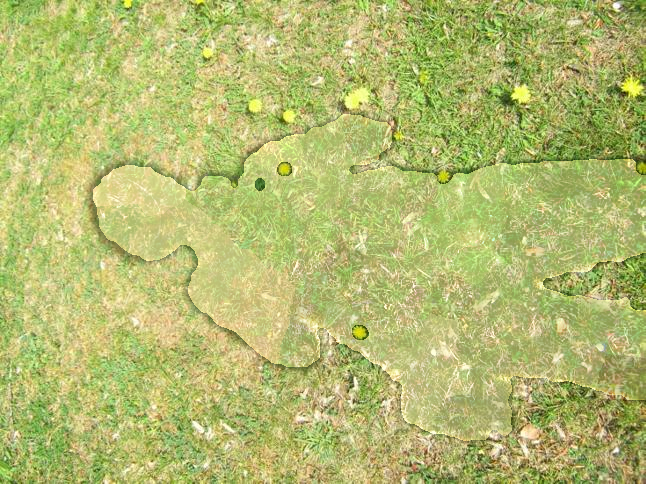
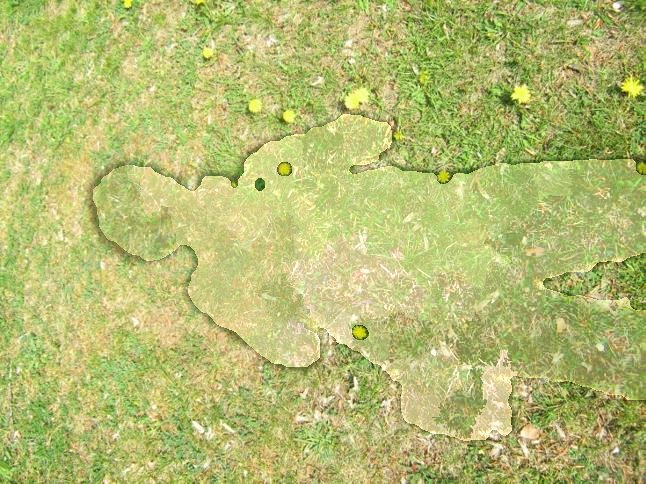
Added tests to bugfix the second removal method

diff --git a/shadow_removal.py b/shadow_removal.py
@@ -59,6 +59,7 @@ def first_removal(file, shadow_mask, partial_results=False):
         green_ratio = round(edge_shadow_segment_mean[1] / shadow_segment_mean[1], 4)
         red_ratio = round(edge_shadow_segment_mean[2] / shadow_segment_mean[2], 4)
 
+        # note: why am I using dilated instead of normal segment
         # copying the original image and zeroing where there's a shadow
         mask_image = image.copy()
         mask_image[dilated_shadow_segment != 255] = 0
@@ -127,8 +128,8 @@ def second_removal(file, shadow_mask, partial_results=False):
     # note: not converting the shadow segments to lab seems to improve removal results
     # TODO test without mask, only try on zero'd out image, may improve
     # using the SLIC algorithm to segment the image in non-shadow and shadow regions
-    shadow_segments = slic(image, n_segments=70, compactness=20, mask=shadow_mask, convert2lab=True, enforce_connectivity=True)
-    non_shadow_segments = slic(image, n_segments=70, compactness=20, mask=non_shadow_mask, convert2lab=True, enforce_connectivity=True)
+    shadow_segments = slic(image, n_segments=70, compactness=10, mask=shadow_mask)
+    non_shadow_segments = slic(image, n_segments=70, compactness=10, mask=non_shadow_mask)
 
     # making a list out of the labels
     shadow_segments_list = np.unique(shadow_segments)
@@ -262,6 +263,7 @@ def second_removal(file, shadow_mask, partial_results=False):
         cv2.line(image_segment_centers_lines, shadow_center, final_non_shadow_center, (255, 0, 0), 1)
 
     result = non_shadow_image.copy()
+    #result = cv2.normalize(result, None, 0, 1, cv2.NORM_MINMAX, cv2.CV_32FC1)
 
     # relighting the shadow with the optimal non-shadow pair
     for i in range(len(label_pairs)):
@@ -276,13 +278,37 @@ def second_removal(file, shadow_mask, partial_results=False):
         shadow_segment = image.copy()
         non_shadow_segment = image.copy()
 
+        #shadow_segment = cv2.normalize(shadow_segment, None, 0, 1, cv2.NORM_MINMAX, cv2.CV_32FC1)
+        #non_shadow_segment = cv2.normalize(non_shadow_segment, None, 0, 1, cv2.NORM_MINMAX, cv2.CV_32FC1)
+
         shadow_segment[shadow_segments != i] = 0
         non_shadow_segment[non_shadow_segments != label_pairs[i]] = 0
 
+        # if i == 52:
+        #     print(i, label_pairs[i])
+
+            #cv2.imshow("Problem shadow segment before histogram matching", shadow_segment)
+            #cv2.imshow("Problem non_shadow segment before histogram matching", non_shadow_segment)
+
         relighted_segment = match_histograms(shadow_segment, non_shadow_segment, channel_axis=-1)
+
+        #cv2.imshow(str(i) + "th segment", relighted_segment)
+
+        #if i == 52:
+            # b, g ,r = cv2.split(relighted_segment)
+            # cv2.imshow("b",b)
+            # cv2.imshow("g", g)
+            # cv2.imshow("r", r)
+            #cv2.imshow("Problem segment after histogram matching", relighted_segment)
+
+
         relighted_segment[shadow_segments != i] = 0
 
         result = cv2.add(result, relighted_segment)
+
+
+    #result = cv2.normalize(result, None, 0, 255, cv2.NORM_MINMAX, cv2.CV_8U)
+
 
     cv2.imshow("Result from second shadow removal method", result)
 
@@ -309,8 +335,4 @@ def second_removal(file, shadow_mask, partial_results=False):
         cv2.imshow("Lines between the pairs", image_segment_centers_lines)
 
     return result
-
-
-
-
 

diff --git a/shadow_detection.py b/shadow_detection.py
@@ -27,8 +27,8 @@ def first_detection(file, partial_results=False):
         shadow_mask[(light_level <= light_level_mean - light_level_stddev / 3)] = 255
     else:
         shadow_mask[(light_level <= light_level_mean - light_level_stddev / 3) & (
-                    b_level <= b_level_mean - b_level_stddev / 3) & (
-                    b_level >= -1 * b_level_mean + b_level_stddev / 3)] = 255
+                    b_level <= b_level_mean - b_level_stddev / 3)] = 255#& (
+                    #b_level >= -1 * b_level_mean + b_level_stddev / 3)] = 255
 
     rough_shadow_mask = shadow_mask.copy()
 
@@ -36,8 +36,10 @@ def first_detection(file, partial_results=False):
     shadow_mask = cv2.morphologyEx(shadow_mask, cv2.MORPH_CLOSE, np.ones((7, 7)))
     shadow_mask = cv2.morphologyEx(shadow_mask, cv2.MORPH_OPEN, np.ones((7, 7)))
 
+    cv2.imwrite("Shadow mask after morph cleaning.png",shadow_mask)
     # using median blur to smoothen rough edges
     shadow_mask = cv2.medianBlur(shadow_mask, 7)
+
 
     cv2.imwrite("results/shadow_mask_first_detection.png", shadow_mask)
 
@@ -49,9 +51,10 @@ def first_detection(file, partial_results=False):
 
         # cv2.imshow("Original", image)
 
-        # cv2.imshow("LAB Image", lab_image)
+        #cv2.imshow("LAB Image", lab_image)
 
         cv2.imshow("Shadow Mask before morphological cleaning", rough_shadow_mask)
+        cv2.imwrite("Shadow mask before morphological cleaning.png", rough_shadow_mask)
 
     shadow_mask = blob_fill(shadow_mask)
     print("Shadow correction was used!")

diff --git a/main.py b/main.py
@@ -7,7 +7,6 @@ if __name__ == "__main__":
 
     # path of the image
     file_image = "images/lssd9.jpg"
-    # note: image93 decent result
 
     cv2.imshow("Original Image", cv2.imread(file_image))
 
@@ -15,8 +14,9 @@ if __name__ == "__main__":
 
     e1 = cv2.getTickCount()
 
-    shadow_mask = first_detection(file_image)
-    #sshadow_mask = second_detection(file_image)
+    #shadow_mask = cv2.imread("shadow_masks/93-1.png",cv2.IMREAD_GRAYSCALE)
+    shadow_mask = first_detection(file_image,True)
+    #shadow_mask = second_detection(file_image)
 
     e2 = cv2.getTickCount()
     time1 = round((e2 - e1) / cv2.getTickFrequency(), 4)
@@ -27,7 +27,7 @@ if __name__ == "__main__":
 
     e3 = cv2.getTickCount()
 
-    first_removal(file_image, shadow_mask)
+    #first_removal(file_image, shadow_mask)
     #second_removal(file_image, shadow_mask, False)
 
     e4 = cv2.getTickCount()
